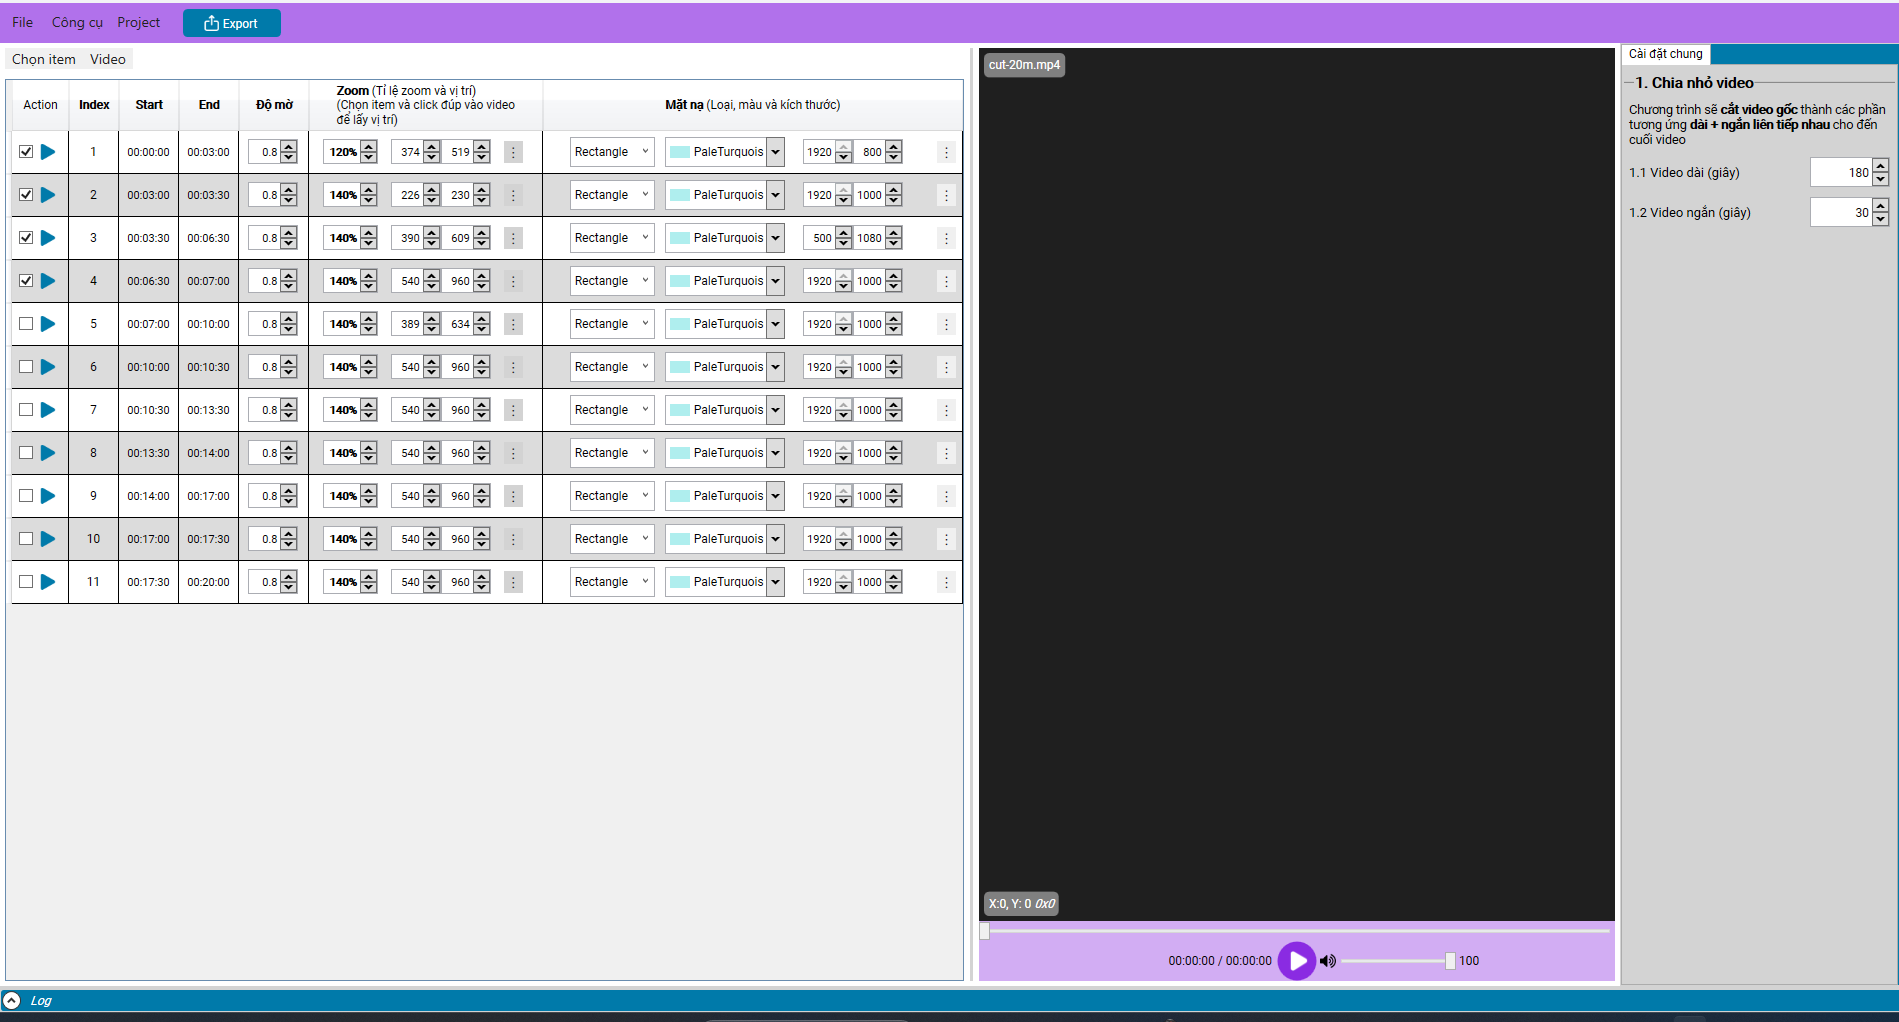
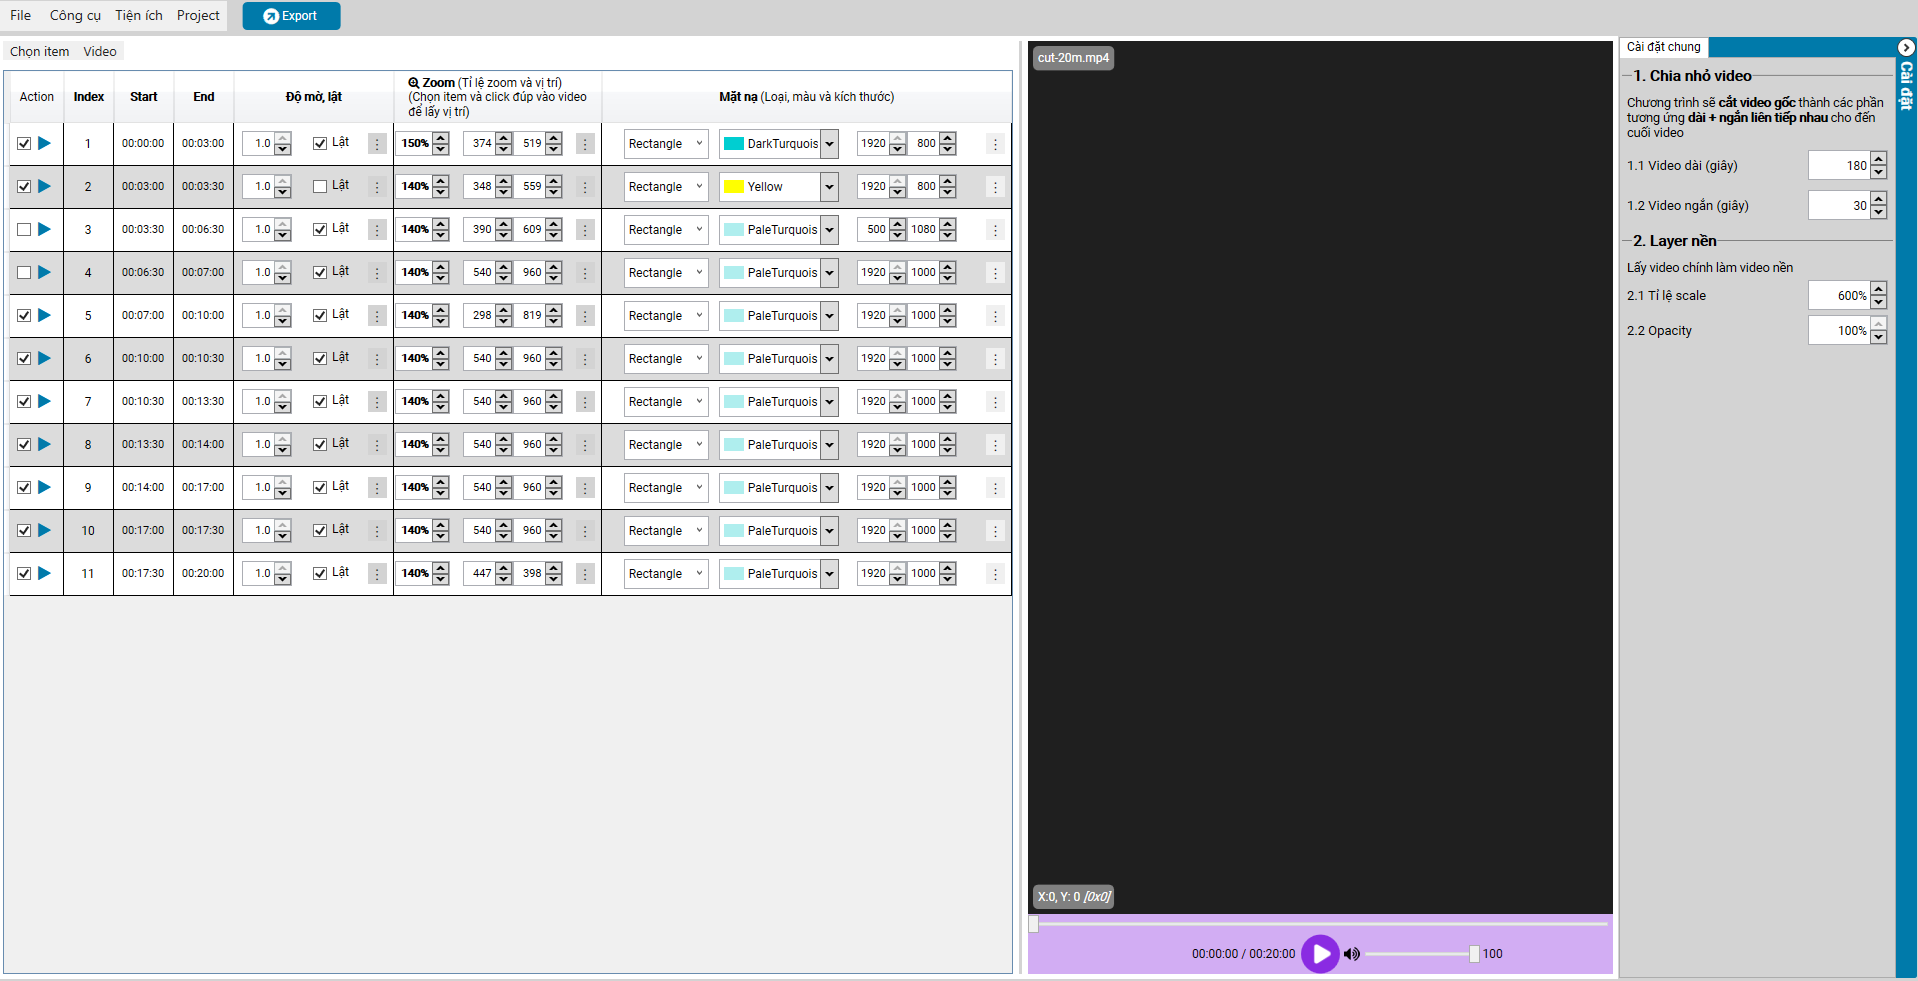
update ui and add video demo

Changed region(s): [[0.0, 0.0, 1.0, 1.0]]

diff --git a/docusaurus.config.ts b/docusaurus.config.ts
@@ -132,6 +132,13 @@ const config: Config = {
       darkTheme: prismThemes.dracula,
     },
   } satisfies Preset.ThemeConfig,
+  stylesheets: [
+    {
+      href: "https://cdnjs.cloudflare.com/ajax/libs/font-awesome/6.5.1/css/all.min.css",
+      integrity: "sha512-DTOQO9RWCH3ppGqcWaEA1B7e...etc",
+      crossorigin: "anonymous",
+    },
+  ],
 };
 
 export default config;

diff --git a/docs/tutorial-basics/2-create-project.md b/docs/tutorial-basics/2-create-project.md
@@ -11,10 +11,10 @@ Tạo project mới hoặc mở project đã làm trước đó
 - *P/s*: các project đã tạo từ trước sẽ được lưu lại và sắp xếp theo thời gian mới nhất
 
 
-## I. Start app
-- Cửa sổ start application
-- Có thể tạo project mới
-- Lưu thông tin các project trước đó: Tên, loại, thời gian, kích thước
+## I. Start application
+
+- Tạo project mới
+- Lưu thông tin các project trước đó: *Tên, loại, thời gian, kích thước*
 
 ![Lyric](/img/start/start.png)
 
@@ -22,11 +22,13 @@ Tạo project mới hoặc mở project đã làm trước đó
 
 ## II. Tạo project mới
 
+Tạo project để dễ dàng làm việc, người dùng có thể *lưu*, *mở* và *xóa* giống như *Office*
+
 - B1 - Ở hình 1, Click vào **Tạo project** hoặc nhấn tổ hợp phím **Ctrl + N**
-- B2 - Cửa sổ tạo project hiện ra
+- B2 - Cửa sổ tạo project hiện ra như hình 2
 - B3 - Đặt tên project
-- B4 - Chọn nơi lưu
-- B5 - Chọn loại template cần làm việc
+- B4 - Chọn nơi lưu (Recommend lưu ở ổ cứng SSD)
+- B5 - Chọn loại template cần dùng
 - B6 - Click **OK**
 
 ![Lyric](/img/start/create-project.png)
@@ -34,20 +36,22 @@ Tạo project mới hoặc mở project đã làm trước đó
 #### *Hình 2 - Cửa sổ tạo project*
 
 :::tip
-- Click vào button **☆ (favorite)** của template để nó sẽ được ưu tiên sắp xếp lên đầu
+- Click vào button **<i class="fa-regular fa-star"></i> (favorite)** của template để nó sẽ được ưu tiên sắp xếp lên đầu
 - Click đúp vào template **=** click OK
 :::
 
 
 ## III. Mở project đã có
 
-- B1. Ở hình 1, tìm trong bảng project cần mở, hoặc click vào biểu tượng tìm kiếm (🔍) sau đó gõ tên và Enter
-- B2. Click đúp vào project hoặc nhấn vào **⋮** và chọn **Mở**
+Các project lúc làm việc sẽ được lưu lại ở cửa sổ này
+
+- B1. Ở hình 1, tìm trong bảng project cần mở *hoặc* click vào biểu tượng tìm kiếm <i class="fa-solid fa-magnifying-glass"></i> sau đó gõ tên và Enter
+- B2. Click đúp vào project *hoặc* nhấn vào **⋮** và chọn **Mở**
 
 
 :::note
 
-Nếu project chiếm dung lượng lớn, bạn hãy mở project. Sau đó chọn vào menu **Project -> Mở project trong windows**
+Nếu project chiếm dung lượng lớn, bạn hãy mở project. Sau đó chọn vào menu **Project <i class="fa-solid fa-arrow-right"></i> Mở project trong windows**
 và xóa các file `.mp4, .mp3` để giải phóng bộ nhớ
 
 :::
@@ -61,5 +65,5 @@ Không xóa file có đuôi `.vmva`. Đây là file chưa thông tin project
 :::tip
 Click vào button ở góc phải cửa sổ start application, sẽ thấy được thông tin tài khoản
 - Free
-- Pro
+- Pro <i class="fa-regular fa-star"></i>
 :::

diff --git a/docs/tutorial-basics/5-thuyet-minh.md b/docs/tutorial-basics/5-thuyet-minh.md
@@ -4,7 +4,7 @@ sidebar_position: 5
 
 # Thuyết minh phim
 
-Dịch và lồng tiếng phim từ ngôn ngữ này sang ngôn ngữ khác
+Dịch và lồng tiếng phim từ ngôn ngữ này <i class="fa-solid fa-arrow-right"></i> ngôn ngữ khác
 
 ![Lyric](/img/thuyetminh/thuyet-minh.png)
 
@@ -12,11 +12,14 @@ Dịch và lồng tiếng phim từ ngôn ngữ này sang ngôn ngữ khác
 
 ## I. Dịch phim
 
-### 1. Lấy lyric
+### 1. Lấy lyric 
     - Tự động
-        - Ở Menu **Lyric gốc** -> **Tạo tự động**. Thư viện sẽ tạo generate ra file .srt và tự động import máy tính
+        - Ở Menu **Lyric gốc** -> **Tạo tự động**. Thư viện sẽ tạo generate ra file `.srt` và tự động import vào project
     - Upload từ máy tính
         - Ở Menu **Lyric gốc** -> **Upload từ máy tính**
+:::note    
+Chương trình sẽ xóa bỏ 1 số dòng bị duplicate <i class="fa-solid fa-arrow-right"></i> tránh audio bị đè lên nhau
+:::
 ### 2. Dịch
     - Dịch tự động: **Lyric dịch** -> **Dịch**
         - Chat GPT (Recommend)
@@ -25,11 +28,13 @@ Dịch và lồng tiếng phim từ ngôn ngữ này sang ngôn ngữ khác
         
 :::note    
 Sau khi dịch, bạn cần review lại bản dịch để confirm lại
+- Check lại ngôn ngữ bản dịch nếu bị dịch sai (Vào menu *Lyric dịch* <i class="fa-solid fa-arrow-right"></i> *So sánh*)
+- Tìm kiếm và thay thế (Vào menu *Lyric dịch* <i class="fa-solid fa-arrow-right"></i> *Tìm kiếm và thay thế*)
 :::
 
 ## II. Lồng tiếng
 
-### 1. Tải audio
+### 1. Tải audio 
 
     - Click vào item ở hình 1, ở trường **Chọn giọng TTK**, click vào ⋮ và áp dụng cho *tất cả* hoặc chọn *các item* tùy ý
     - Có thể chọn clone sau khi tạo audio
@@ -41,7 +46,8 @@ Sau khi dịch, bạn cần review lại bản dịch để confirm lại
     **Hình 2 - Cửa sổ download audio**
 
 :::tip    
-Nếu tốc độ đọc của phim gốc nhanh, bạn cần chọn tốc độ cao khi download
+- Nếu tốc độ đọc của phim gốc nhanh, bạn cần chọn tốc độ cao khi download
+- Ở phía dưới - trái <i class="fa-solid fa-arrow-right"></i> trạng thái phần trăm (%) số lượng item đã được dịch và số lượng item có audio
 :::
 
 ### 2. Export video
@@ -59,3 +65,15 @@ Nếu tốc độ đọc của phim gốc nhanh, bạn cần chọn tốc độ 
 ![export-video](/img/common/export-video.png)
 
 **Hình 3 - Cửa sổ export video**
+
+
+## III. Ví dụ
+
+
+<iframe width="560" height="315"
+  src="https://www.youtube.com/embed/TYUVUn29FuY"
+  title="YouTube video player"
+  frameborder="0"
+  allow="accelerometer; autoplay; clipboard-write; encrypted-media; gyroscope; picture-in-picture"
+  allowfullscreen>
+</iframe>

diff --git a/docs/tutorial-basics/6-review-manga.md b/docs/tutorial-basics/6-review-manga.md
@@ -10,15 +10,16 @@ Tạo video từ ảnh của 1 chap *truyện tranh* hoặc ảnh bất kỳ
 
 #### *Hình 1 - Giao diện review truyện tranh*
 
-## I. Tạo text
+## I. Edit item
     1. Add item
         - Menu **Công cụ** -> **Thêm item**
             - Nhập số lượng item cần thêm
             - Click OK
     2. Text
+        - Click vào từng item ở bảng list item
         - Tạo text
-            - Lấy text từ ảnh (nhập thủ công hoặc nhận diện text bằng AI)
-            - Có thể dịch sang tiếng khác
+            - Lấy text từ ảnh (nhập thủ công *hoặc* nhận diện text bằng AI)
+            - Có thể dịch sang ngôn ngữ khác
         
     
     *P/s: Sau khi dịch, bạn cần review lại bản dịch để confirm lại*
@@ -31,13 +32,23 @@ Tạo video từ ảnh của 1 chap *truyện tranh* hoặc ảnh bất kỳ
         ![Bubble](/img/manga/draw-bubble.png)
 
         *Hình 2 - Cửa sổ vẽ khung chat*
+
+        - Click vào kiểu chat cần vẽ
+        - Di chuyển chuột vào vị trí ảnh cần vẽ, sau đó click chuột trái để confirm
+        - Click **OK** để lưu lại ảnh vào item
+
+:::tip
+ - Click vào button *Reset*  để reset lại ảnh
+ - Click vào từng item, chuột phải <i class="fa-solid fa-arrow-right"></i> Xóa để xóa khung chat
+:::
+
 ## III. Tạo audio
 
     1. Tải audio
         - Click vào item ở hình 1, ở trường **Chọn giọng TTK**, click vào ⋮ và áp dụng cho *tất cả* hoặc chọn *các item* tùy ý
-        - Có thể chọn clone sau khi tạo audio
+        - Chọn clone nếu như bạn muốn custome sang 1 giọng khác
         - Menu **Audio** -> **Download Audio**
-        - Tải audio: bạn có thể chọn tốc độ phù hợp với giọng nói ở phim để download
+        - Tải audio: bạn có thể chọn tốc độ phù hợp với nhu cầu của mình để download
 
         ![Lyric](/img/common/download-audio.png)
 

diff --git a/docs/tutorial-basics/7-lyric.md b/docs/tutorial-basics/7-lyric.md
@@ -11,27 +11,43 @@ Làm lyric cho video, audio
 #### *Hình 1 - Giao diện tạo video lyric*
 
 ## I. Tạo subtitle
+
     1. Tạo tự động
         - Chọn ngôn ngữ của video
-        - Generate
-    2. Tạo thủ cộng
-        - click vào **⋮** và chọn **Upload lyric**
-        
+        - Click vào button **Generate**
+    2. Upload từ máy tính
+        - Click vào menu **Lyric** <i class="fa-solid fa-arrow-right"></i> **Upload lyric**
+
+:::note
+Có thể xóa lyric và upload lại nếu thấy bị sai
+:::
 
 ## II. Edit style
     
     - Ở hình 1, click vào tab **Lyric style** -> **Cài đặt**
     - Chỉnh sửa style, khi đóng cửa sổ, chọn **OK**
 
-    ![Bubble](/img/lyric/edit-style.png)
+    ![Edit-Style](/img/lyric/edit-style.png)
 
     *Hình 2 - Cửa sổ sửa style lyric*
+
 
 ## III. Export video
     
     - Chọn sử dụng GPU hoặc không
     - ~~Tách vocal~~ (không khả dụng ở template này)
 
-    ![Lyric](/img/common/export-video.png)
+    ![Export-Video](/img/common/export-video.png)
 
     **Hình 3 - Cửa sổ export video**
+
+## IV. Ví dụ
+
+
+<iframe width="560" height="315"
+  src="https://www.youtube.com/embed/_Yx3tqWYgxw"
+  title="YouTube video player"
+  frameborder="0"
+  allow="accelerometer; autoplay; clipboard-write; encrypted-media; gyroscope; picture-in-picture"
+  allowfullscreen>
+</iframe>

diff --git a/docs/tutorial-basics/3-install-lib.md b/docs/tutorial-basics/3-install-lib.md
@@ -8,7 +8,7 @@ Cài đặt thư viện để sử dụng đầy đủ tính năng của ứng d
 
 ## I. Thư viện lấy lyric
 
-Thư viện sẽ chuyển đổi video, audio ra text dạng file .srt format
+Thư viện sẽ chuyển đổi *video, audio* <i class="fa-solid fa-arrow-right"></i> *text* dạng file `.srt` format
 
 1. Download
     - Download thư viện ở **[Lyric driver](https://drive.google.com/file/d/1fbsjYrpJGJD2tYhNZSyUsWi8jmZbSeDS/view)**
@@ -45,7 +45,7 @@ Thư viện sẽ chuyển đổi video, audio ra text dạng file .srt format
     - Cửa sổ tách vocal hiện ra (hình 3), vào **Công cụ** -> **Cài đặt manual**
     - Chương trình sẽ ghi xuống 1 file `remove_vocal.bat` vào máy tính
     - Mở terminal tại thư mục, gõ tên `remove_vocal.bat` và Enter
-    - Chạy ít nhất 3 lần cho đến khi báo thành công
+    - Chạy ít nhất 1 lần cho đến khi báo thành công
     - Khởi động lại máy tính, tìm đến cửa sổ Tách Vocal. Ở phía dưới cửa sổ, có button ***Bắt đầu xử lý*** là đã cài đặt thành công
 
 ![RemoveVocal](/img/lib/remove-vocal.png)

diff --git a/docs/tutorial-basics/9-anti-copyright.md b/docs/tutorial-basics/9-anti-copyright.md
@@ -26,10 +26,31 @@ Thêm filter cho **video dọc** -> **video ngang**
         - Chọn kích thước
         - Chọn màu
 
-## IV. Export video
+## II. Cài đặt chung
+
+- Custom độ dài của video ngắn, dài
+- Điều chỉnh hệ số zoom của layer nền
+
+:::note
+- Chương trình sẽ lấy chính video gốc làm layer nền
+- Nếu chương trình chạy tốn nhiều RAM (Vào Task Manager để kiểm tra) <i class="fa-solid fa-arrow-right"></i> Hãy giảm hệ số zoom của layer nền
+:::
+
+## III. Export video
     - Chọn sử dụng GPU hoặc không
     - ~~Tách vocal~~ (không khả dụng ở template này)
 
     ![Lyric](/img/common/export-video.png)
 
     **Hình 3 - Cửa sổ export video**
+
+## IV. Ví dụ
+
+
+<iframe width="560" height="315"
+  src="https://www.youtube.com/embed/2Hs7mIcwHiY"
+  title="YouTube video player"
+  frameborder="0"
+  allow="accelerometer; autoplay; clipboard-write; encrypted-media; gyroscope; picture-in-picture"
+  allowfullscreen>
+</iframe>

diff --git a/docs/tutorial-basics/1-login.md b/docs/tutorial-basics/1-login.md
@@ -12,7 +12,7 @@ Sử dụng **user, password** và **computer id** máy để đăng nhập
 
 
 
-## I. Login
+## I. Nhập thông tin
 
 Dùng **user** và **password** để đăng nhập
 
@@ -27,11 +27,11 @@ Dùng **user** và **password** để đăng nhập
 
 ## II. Đăng ký tài khoản
 
-Là mã đại diện cho thiết bị 
-- B1 - Click vào đăng ký tài khoản, một cửa sổ hiện như hình 2
-- B2 -  Bạn hãy copy mã này và gửi cho admin
+Là mã đại diện cho thiết bị <i class="fa-solid fa-key"></i>
+- B1 - Click vào *đăng ký tài khoản*, một cửa sổ hiện như hình 2
+- B2 - Bạn hãy copy mã này và gửi cho admin
 
 
 ![ComputerId](/img/authen/computer-id.png)
 
-#### *Hình 2 - Giao diện lấy mã thiết bị*
+#### *Hình 2 - Giao diện lấy mã thiết bị <i class="fa-solid fa-key"></i>*

diff --git a/docs/tutorial-basics/8-rewrite-ai.md b/docs/tutorial-basics/8-rewrite-ai.md
@@ -45,3 +45,15 @@ Là bước cần thiết để có thể viết lại
     ![Lyric](/img/common/export-video.png)
 
     **Hình 3 - Cửa sổ export video**
+
+
+## VI. Ví dụ
+
+
+<iframe width="560" height="315"
+  src="https://www.youtube.com/embed/5L9Qz57z3-o"
+  title="YouTube video player"
+  frameborder="0"
+  allow="accelerometer; autoplay; clipboard-write; encrypted-media; gyroscope; picture-in-picture"
+  allowfullscreen>
+</iframe>
